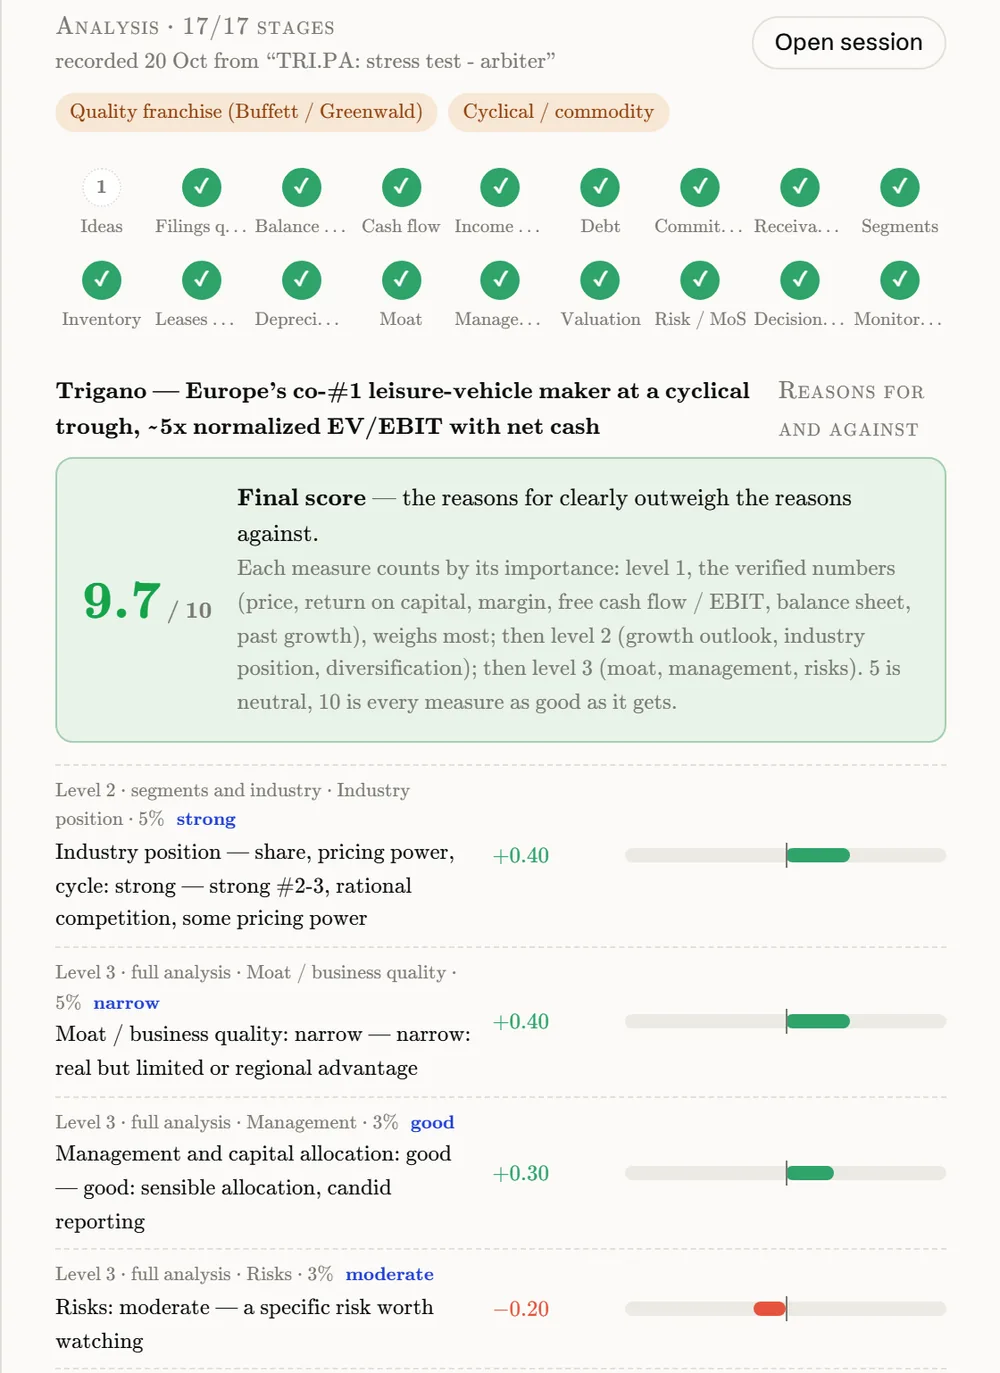
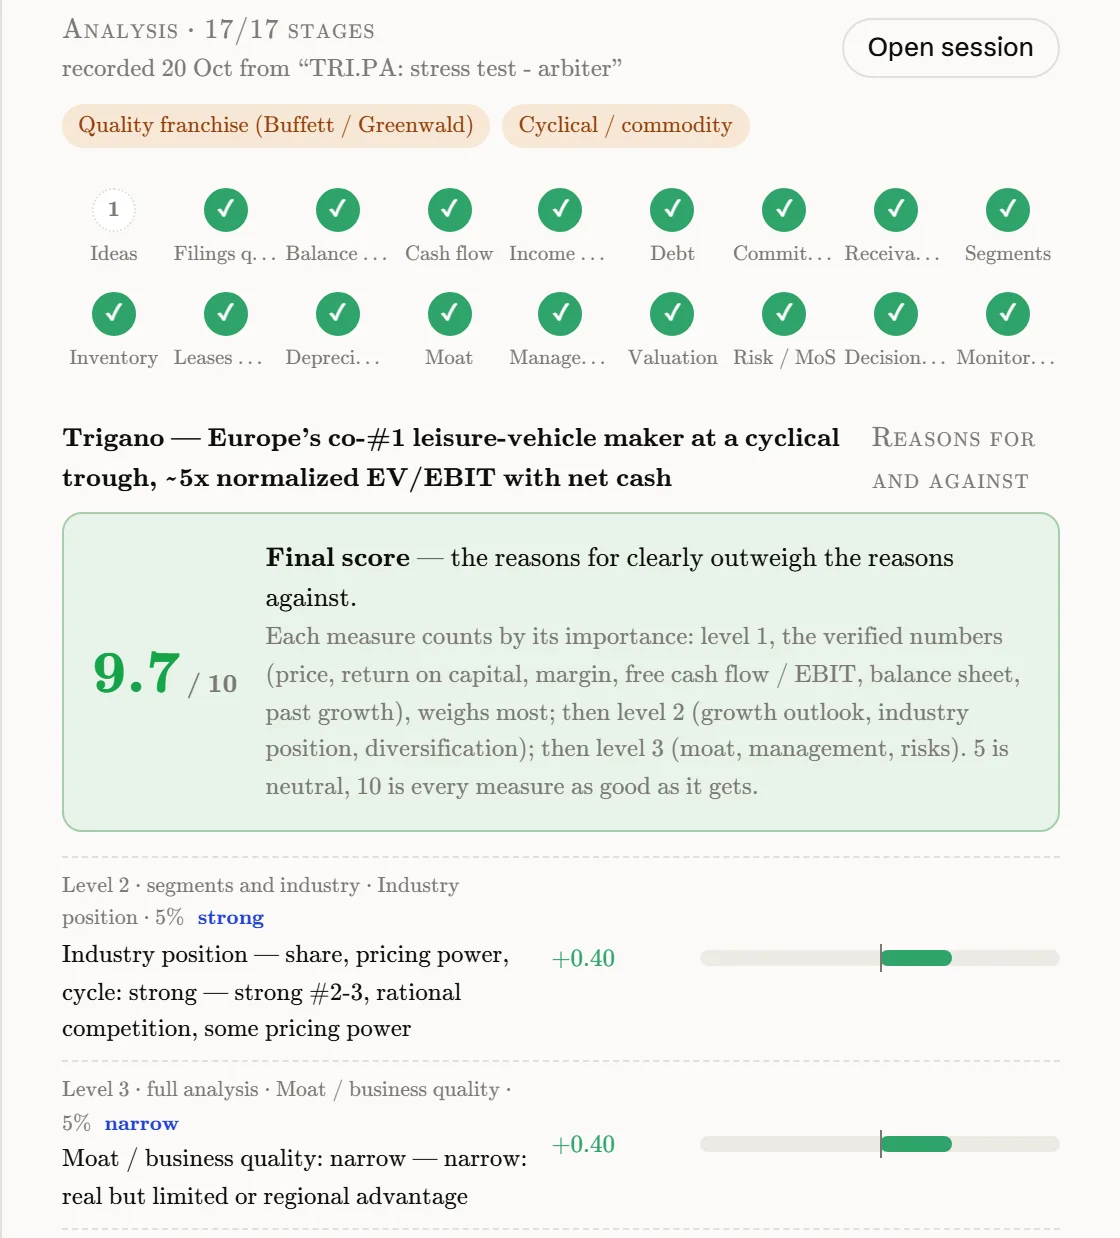
Fill the empty space: key figures beside screenshots, a legend beside the board, readable crops of the tall cards

diff --git a/platform.html b/platform.html
@@ -48,11 +48,20 @@
       </ul>
     </div>
   </section>
-  <section class="wrap hero-shot">
+  <section class="wrap hero-shot shot-split">
     <figure class="frame" style="--hue: var(--eq)">
 <div class="frame-bar"><i></i><i></i><i></i><span class="frame-url">shydel agent · portfolio · the board</span></div>
 <img src="assets/app/vi-board.webp" alt="The Shydel Agent portfolio board: the book by weight, then a lane with Watchlist, Researching, Top picks and Owned columns. Each card carries a score out of ten, a buy signal and normalised EBIT, ROIC, EV/EBIT and P/E." width="2000" height="1471" loading="eager">
 </figure>
+    <aside class="legend">
+      <span class="tag">On the board</span>
+      <ol>
+        <li style="--c: var(--pe)"><b>Four columns</b>Watchlist, researching, top picks and owned.</li>
+        <li style="--c: var(--re)"><b>A score out of ten</b>With a buy or sell signal on every card.</li>
+        <li style="--c: var(--fi)"><b>Normalised numbers</b>EBIT, ROIC, EV/EBIT and P/E, then the forward years.</li>
+        <li style="--c: var(--eq)"><b>The thesis</b>One paragraph per company, from the recorded analysis.</li>
+      </ol>
+    </aside>
   </section>
 
 
@@ -75,6 +84,7 @@
           <h3>Numbers first, all the way to the verdict.</h3>
           <p>Seven years of statements, verified against the annual report. Most ideas stop here.</p>
           <p>Trigano passed: 5.3 times normalised EBIT, net cash, 27% on tangible capital. It ended at a score of 9.7.</p>
+          <dl class="kfig"><div><dt>5.3×</dt><dd>EV/EBIT, normalised</dd></div><div><dt>27%</dt><dd>return on tangible capital</dd></div><div><dt>Net cash</dt><dd>on the balance sheet</dd></div><div><dt>9.7</dt><dd>final score</dd></div></dl>
         </div>
         <div class="zig-media">
           <figure class="frame frame-on-dark" style="--hue: var(--eq)">
@@ -89,6 +99,7 @@
           <span class="tag">Levels 2 and 3 · the full analysis</span>
           <h3>Segments, the industry, then eighteen stages.</h3>
           <p>Segments, regions and the industry's cycle, then all eighteen stages, each with a cited finding.</p>
+          <dl class="kfig"><div><dt>7 years</dt><dd>of segments and regions</dd></div><div><dt>18</dt><dd>stages, each finding cited</dd></div><div><dt>2</dt><dd>playbooks: franchise, cyclical</dd></div><div><dt>17 / 17</dt><dd>stages done or skipped</dd></div></dl>
         </div>
         <div class="zig-media">
           <figure class="frame frame-on-dark" style="--hue: var(--eq)">
@@ -103,11 +114,12 @@
           <span class="tag">Top picks · the card</span>
           <h3>A score that leads with the margin of safety.</h3>
           <p>A score out of ten, led by the margin of safety. Above your threshold, a buy signal; moving a name is always your call.</p>
+          <dl class="kfig"><div><dt>40%</dt><dd>of the score is price</dd></div><div><dt>≥ 7.0</dt><dd>buy signal</dd></div><div><dt>≤ 4.0</dt><dd>sell signal</dd></div><div><dt>#1 of 91</dt><dd>Trigano's rank on the board</dd></div></dl>
         </div>
         <div class="zig-media">
-          <figure class="frame frame-on-dark frame-tall-md" style="--hue: var(--re)">
+          <figure class="frame frame-on-dark" style="--hue: var(--re)">
 <div class="frame-bar"><i></i><i></i><i></i><span class="frame-url">TRI.PA · top pick · opened</span></div>
-<img src="assets/app/vi-top-pick.webp" alt="Trigano opened from top picks: one stress test run and its agreed score, a score of 9.7 with a buy signal, the main thesis and its reasoning in full, then normalised and forward EBIT, ROIC, EV/EBIT and P/E." width="1000" height="1786" loading="lazy">
+<img src="assets/app/vi-top-pick.webp" alt="Trigano opened from top picks: one stress test run and its agreed score, a score of 9.7 with a buy signal, the main thesis and its reasoning in full, then normalised and forward EBIT, ROIC, EV/EBIT and P/E." width="1120" height="950" loading="lazy">
 </figure>
         </div>
       </div>
@@ -117,6 +129,7 @@
           <span class="tag">Level 4 · the stress test</span>
           <h3>The thesis, argued against itself.</h3>
           <p>A challenger, an advocate and an arbiter score it blind, then debate every input until they agree on one score.</p>
+          <dl class="kfig"><div><dt>3</dt><dd>challenger, advocate, arbiter</dd></div><div><dt>2</dt><dd>rounds to agree</dd></div><div><dt>0.4</dt><dd>spread at the close</dd></div><div><dt>9.9 → 9.7</dt><dd>the score after debate</dd></div></dl>
         </div>
         <div class="zig-media">
           <figure class="frame frame-on-dark" style="--hue: var(--pe)">
@@ -132,6 +145,7 @@
           <h3>The book, read as one business.</h3>
           <p>The whole portfolio's margins, debt and earnings yield, before and after the proposed changes.</p>
           <p>Recommendations only; nothing is executed.</p>
+          <dl class="kfig"><div><dt>32% → 18%</dt><dd>largest position</dd></div><div><dt>7.5% → 8.3%</dt><dd>free cash flow margin</dd></div><div><dt>8.5 → 7.6</dt><dd>EV/EBIT of the book</dd></div><div><dt>0</dt><dd>trades executed</dd></div></dl>
         </div>
         <div class="zig-media">
           <figure class="frame frame-on-dark" style="--hue: var(--fi)">
@@ -241,11 +255,12 @@
           <h3>Valued on what it owns.</h3>
           <p>Net equity value of C$27.37 a share against a C$18.46 price: about 67 cents on the dollar, debt-free, compounding 11% a year.</p>
           <p>Score 8.3; buy below C$21.5.</p>
+          <dl class="kfig"><div><dt>0.67×</dt><dd>price to net equity value</dd></div><div><dt>11%</dt><dd>a year, compounded</dd></div><div><dt>C$21.5</dt><dd>buy-below</dd></div><div><dt>8.3</dt><dd>score, buy signal</dd></div></dl>
         </div>
         <div class="zig-media">
-          <figure class="frame frame-on-dark frame-tall-md" style="--hue: var(--fn)">
+          <figure class="frame frame-on-dark" style="--hue: var(--fn)">
 <div class="frame-bar"><i></i><i></i><i></i><span class="frame-url">ELF.TO · E-L Financial · opened</span></div>
-<img src="assets/app/vi-elf.webp" alt="E-L Financial opened from the board: a score of 8.3 with a buy signal, the thesis of buying a debt-free asset base at about 0.67 times its net equity value, how the holding company is built, and the base-case value with buy-below and trim-above prices." width="1000" height="1786" loading="lazy">
+<img src="assets/app/vi-elf.webp" alt="E-L Financial opened from the board: a score of 8.3 with a buy signal, the thesis of buying a debt-free asset base at about 0.67 times its net equity value, how the holding company is built, and the base-case value with buy-below and trim-above prices." width="1120" height="950" loading="lazy">
 </figure>
         </div>
       </div>
@@ -256,6 +271,7 @@
           <h3>Valued on what it earns through the cycle.</h3>
           <p>On a mid-cycle margin of 10.6% it earns about €388M: 5.3 times EBIT with net cash, after a trough priced as permanent.</p>
           <p>A conservative €196 against €126. Score 9.7; buy below €140.</p>
+          <dl class="kfig"><div><dt>10.6%</dt><dd>mid-cycle margin</dd></div><div><dt>5.3×</dt><dd>EV/EBIT</dd></div><div><dt>€196</dt><dd>conservative value, vs €126</dd></div><div><dt>9.7</dt><dd>score, buy signal</dd></div></dl>
         </div>
         <div class="zig-media">
           <figure class="frame frame-on-dark" style="--hue: var(--eq)">
@@ -284,9 +300,9 @@
           </tbody>
         </table>
       </div>
-      <figure class="frame frame-tall-md" style="--hue: var(--eq)">
+      <figure class="frame" style="--hue: var(--eq)">
 <div class="frame-bar"><i></i><i></i><i></i><span class="frame-url">scorecard · Trigano (TRI.PA)</span></div>
-<img src="assets/app/vi-scorecard.webp" alt="The Trigano scorecard: all eighteen stages done, the playbooks (quality franchise, cyclical), a final score of 9.7 out of 10, and each factor with its level, its weight, its grade and its effect on the score." width="1000" height="1373" loading="lazy">
+<img src="assets/app/vi-scorecard.webp" alt="The Trigano scorecard: all eighteen stages done, the playbooks (quality franchise, cyclical), a final score of 9.7 out of 10, and the first factors with their level, weight, grade and effect on the score." width="1120" height="1238" loading="lazy">
 </figure>
     </div>
   </section>
@@ -315,6 +331,7 @@
           <span class="tag">A rule and its reason</span>
           <h3>Nothing becomes a rule without a why.</h3>
           <p>Each rule keeps its reason and a confidence that rises when you follow it.</p>
+          <dl class="kfig"><div><dt>Why</dt><dd>every rule keeps its reason</dd></div><div><dt>Where</dt><dd>the stage it applies to</dd></div><div><dt>Confidence</dt><dd>rises when you follow it</dd></div><div><dt>You</dt><dd>approve every rule</dd></div></dl>
         </div>
         <div class="zig-media">
           <figure class="frame frame-on-dark frame-tall-md" style="--hue: var(--fi)">
@@ -329,6 +346,7 @@
           <span class="tag">Your rules, by stage</span>
           <h3>At the stage where it matters.</h3>
           <p>Kept by stage and kind of company, so each rule appears only where it applies.</p>
+          <dl class="kfig"><div><dt>18</dt><dd>stages to file a rule under</dd></div><div><dt>6</dt><dd>kinds of company</dd></div><div><dt>4</dt><dd>kinds of memory</dd></div><div><dt>0</dt><dd>rules applied without approval</dd></div></dl>
         </div>
         <div class="zig-media">
           <figure class="frame frame-on-dark" style="--hue: var(--fn)">

diff --git a/styles.css b/styles.css
@@ -880,3 +880,22 @@ a, button { -webkit-tap-highlight-color: transparent; }
 .frame img { width: auto; max-width: 100%; height: auto; max-height: min(72vh, 780px); }
 .frame-bar { min-width: 0; }
 .frame-url { overflow: hidden; text-overflow: ellipsis; white-space: nowrap; }
+
+/* Filling the space: columns that hug the screenshot, key figures beside it, a legend beside the board */
+.zig:has(> .zig-media > .frame) { grid-template-columns: minmax(300px, 1fr) auto; }
+.zig.flip:has(> .zig-media > .frame) { grid-template-columns: auto minmax(300px, 1fr); }
+.zig-media > .frame { margin-inline: 0; }
+.kfig { display: grid; grid-template-columns: repeat(2, minmax(0, 1fr)); gap: 10px; margin: 24px 0 0; }
+.kfig div { background: #1C1C1B; border: 1px solid #2E2E2C; border-radius: 14px; padding: 14px 16px; }
+.kfig dt { font-size: clamp(20px, 2vw, 28px); font-weight: 800; letter-spacing: -0.03em; line-height: 1.1; color: #FFFFFF; }
+.kfig dd { margin: 4px 0 0; font-size: 13px; color: #B5B5B0; }
+.shot-split { display: grid; grid-template-columns: auto minmax(240px, 1fr); gap: 32px 48px; align-items: center; }
+.shot-split > .frame { margin-inline: 0; }
+.legend ol { list-style: none; margin: 14px 0 0; padding: 0; display: grid; gap: 18px; }
+.legend li { padding-left: 16px; border-left: 3px solid var(--c, var(--accent)); color: var(--text-2); font-size: 15.5px; }
+.legend b { display: block; color: var(--ink); font-size: 17px; margin-bottom: 2px; }
+.legend .meet-links { margin-top: 24px; }
+@media (max-width: 860px) {
+  .zig:has(> .zig-media > .frame), .zig.flip:has(> .zig-media > .frame), .shot-split { grid-template-columns: 1fr; }
+  .zig-media > .frame, .shot-split > .frame { margin-inline: auto; }
+}

diff --git a/index.html b/index.html
@@ -78,13 +78,24 @@
     <div class="section-head">
       <h2>Meet the analyst.</h2>
     </div>
+    <div class="shot-split">
     <figure class="frame">
       <div class="frame-bar"><i></i><i></i><i></i><span class="frame-url">shydel agent · portfolio · all asset classes</span></div>
       <img src="assets/app/vi-board.webp" alt="The Shydel Agent portfolio board: the book by weight, then the public equities lane with Watchlist, Researching, Top picks and Owned columns. Each card carries a score out of ten, a buy signal and normalised EBIT, ROIC, EV/EBIT and P/E." width="2000" height="1471" loading="lazy">
     </figure>
-    <div class="meet-links">
+    <aside class="legend">
+      <span class="tag">On the board</span>
+      <ol>
+        <li style="--c: var(--pe)"><b>Four columns</b>Watchlist, researching, top picks and owned.</li>
+        <li style="--c: var(--re)"><b>A score out of ten</b>With a buy or sell signal on every card.</li>
+        <li style="--c: var(--fi)"><b>Normalised numbers</b>EBIT, ROIC, EV/EBIT and P/E, then the forward years.</li>
+        <li style="--c: var(--eq)"><b>The thesis</b>One paragraph per company, from the recorded analysis.</li>
+      </ol>
+      <div class="meet-links">
       <a href="platform.html" class="pill pill-accent">See the platform →</a>
       <a href="https://bookings.cloud.microsoft/book/Shydel1@shydel.com/" target="_blank" rel="noopener" class="pill pill-outline">Book a demo</a>
+    </div>
+    </aside>
     </div>
   </section>
 
